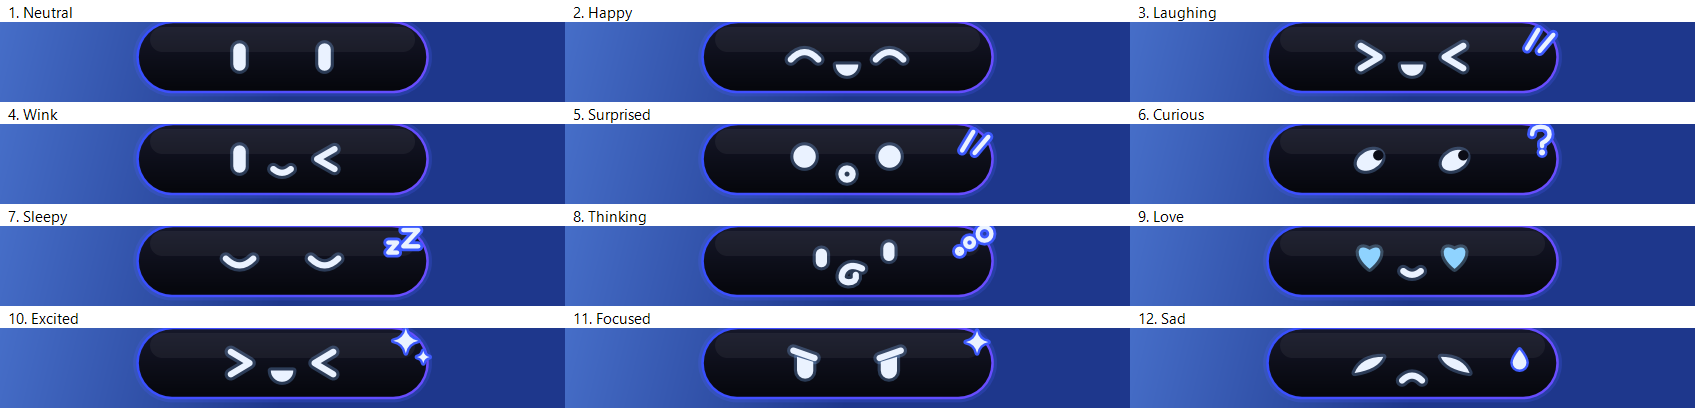
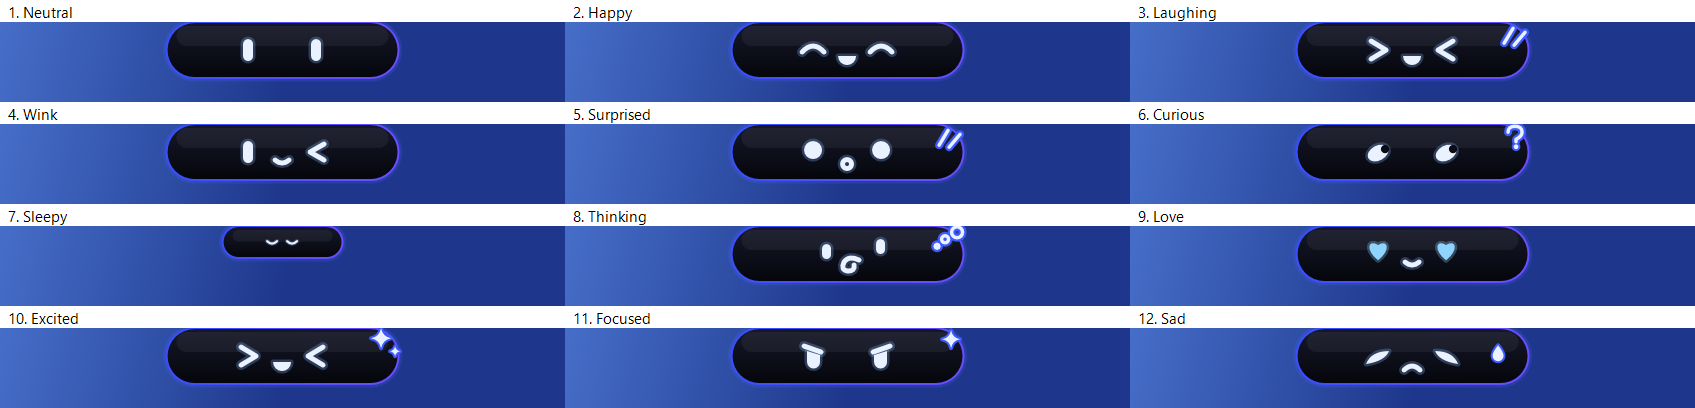
Draw the compact island states at 0.8 scale
Mini, Reaction and Info were larger than the user wanted next to another
notch app. IslandHost now scales those states (and their face/info content)
by CompactScale = 0.8; the panel keeps its size.

diff --git a/src/TaskIsland.App/Controls/IslandHost.cs b/src/TaskIsland.App/Controls/IslandHost.cs
@@ -20,6 +20,14 @@ public sealed class IslandHost : Grid
 {
     public const double HostWidth = 452;
 
+    /// <summary>
+    /// Mini, Reaction and Info are drawn at this scale: callers pass the design sizes (120 x 32, 232 x 56, NotchWidth x 36)
+    /// and the face/info content is laid out at the design size under the same scale. The panel is not scaled.
+    /// </summary>
+    public const double CompactScale = 0.8;
+
+    private static readonly ScaleTransform CompactTransform = Frozen(new ScaleTransform(CompactScale, CompactScale));
+
     public static readonly DependencyProperty MorphProperty = DependencyProperty.Register(
         nameof(Morph), typeof(double), typeof(IslandHost),
         new PropertyMetadata(0.0, (d, e) => ((IslandHost)d).OnMorph((double)e.NewValue)));
@@ -32,6 +40,7 @@ public sealed class IslandHost : Grid
     private readonly TranslateTransform _panelSlide = new();
     private FrameworkElement? _face, _info, _panel;
     private Look _from, _to, _now;
+    private Size _requested = new(120, 32);
     private bool _fromPanel, _toPanel, _resetting, _mascotLook = true;
     private int _generation;
     private double _panelOpacity = 0.94;
@@ -43,7 +52,7 @@ public sealed class IslandHost : Grid
         VerticalAlignment = VerticalAlignment.Stretch;
         Background = null;
 
-        _glow = new Path { Data = _geo, StrokeThickness = 7, IsHitTestVisible = false };
+        _glow = new Path { Data = _geo, StrokeThickness = 7 * CompactScale, IsHitTestVisible = false };
         _glow.SetResourceReference(Shape.StrokeProperty, "MascotGlowRingBrush");
 
         _shadowEffect = new DropShadowEffect { BlurRadius = 28, ShadowDepth = 8, Direction = 270, Color = Colors.Black, Opacity = 0.35 };
@@ -67,7 +76,7 @@ public sealed class IslandHost : Grid
         _gloss = new Path { Data = _glossGeo, IsHitTestVisible = false };
         _gloss.SetResourceReference(Shape.FillProperty, "MascotGlossBrush");
         _clipLayer = new Grid { Clip = _geo, Background = null };
-        _outline = new Path { Data = _geo, StrokeThickness = 2, IsHitTestVisible = false };
+        _outline = new Path { Data = _geo, StrokeThickness = 2 * CompactScale, IsHitTestVisible = false };
         _outline.SetResourceReference(Shape.StrokeProperty, "MascotOutlineBrush");
 
         foreach (var e in new UIElement[] { _glow, _shadow, _body, _panelBody, _gloss, _clipLayer, _outline }) Children.Add(e);
@@ -93,7 +102,8 @@ public sealed class IslandHost : Grid
             if (value is null) return;
             value.HorizontalAlignment = HorizontalAlignment.Center;
             value.VerticalAlignment = VerticalAlignment.Top;
-            value.Margin = new Thickness(0, -4, 0, 0); // the rig's pill starts at y = 4
+            value.LayoutTransform = CompactTransform;
+            value.Margin = new Thickness(0, -4 * CompactScale, 0, 0); // the rig's pill starts at y = 4
             Children.Add(value);
             Render(_now);
         }
@@ -103,7 +113,11 @@ public sealed class IslandHost : Grid
     public FrameworkElement? Info
     {
         get => _info;
-        set => SetClipped(ref _info, value);
+        set
+        {
+            SetClipped(ref _info, value);
+            if (value is not null) value.LayoutTransform = CompactTransform;
+        }
     }
 
     /// <summary>The to-do panel, created on first expand.</summary>
@@ -129,7 +143,7 @@ public sealed class IslandHost : Grid
         _mascotLook = on;
         _body.SetResourceReference(Shape.FillProperty, on ? "MascotBodyBrush" : "PillBrush");
         _outline.SetResourceReference(Shape.StrokeProperty, on ? "MascotOutlineBrush" : "StrokeBrush");
-        _outline.StrokeThickness = on ? 2 : 1;
+        _outline.StrokeThickness = on ? 2 * CompactScale : 1;
         if (!IsAnimating) Snap();
     }
 
@@ -154,7 +168,7 @@ public sealed class IslandHost : Grid
 
     /// <summary>
     /// Morphs to a state. Only the shared geometry and opacities change per frame. A new call smoothly takes over
-    /// from wherever a running morph is.
+    /// from wherever a running morph is. Sizes are design sizes; Mini/Reaction/Info are scaled by <see cref="CompactScale"/>.
     /// </summary>
     public void AnimateTo(IslandState state, double width, double height, TimeSpan duration, IEasingFunction ease,
         Action? completed = null)
@@ -163,6 +177,7 @@ public sealed class IslandHost : Grid
         _fromPanel = State == IslandState.Panel;
         _toPanel = state == IslandState.Panel;
         State = state;
+        _requested = new Size(width, height);
         _from = snapshot;
         _to = Target(state, width, height);
         int generation = ++_generation;
@@ -218,7 +233,7 @@ public sealed class IslandHost : Grid
         completed?.Invoke();
     }
 
-    private void Snap() => AnimateTo(State, _to.W, _to.H, TimeSpan.Zero, FluentEase.Decelerate);
+    private void Snap() => AnimateTo(State, _requested.Width, _requested.Height, TimeSpan.Zero, FluentEase.Decelerate);
 
     private void OnMorph(double p)
     {
@@ -240,8 +255,10 @@ public sealed class IslandHost : Grid
         double x = (HostWidth - l.W) / 2;
         _geo.Rect = new Rect(x, 0, l.W, l.H);
         _geo.RadiusX = _geo.RadiusY = l.R;
-        double gh = Math.Min(20, l.H * 0.36);
-        _glossGeo.Rect = new Rect(x + 10, 4, Math.Max(0, l.W - 20), gh);
+        // The gloss is only visible in the compact states, so it uses their scale.
+        const double k = CompactScale;
+        double gh = Math.Min(20 * k, l.H * 0.36);
+        _glossGeo.Rect = new Rect(x + 10 * k, 4 * k, Math.Max(0, l.W - 20 * k), gh);
         _glossGeo.RadiusX = _glossGeo.RadiusY = gh / 2;
         _body.Opacity = l.Body;
         _panelBody.Opacity = l.PanelBody;
@@ -260,6 +277,11 @@ public sealed class IslandHost : Grid
     private Look Target(IslandState state, double w, double h)
     {
         double m = _mascotLook ? 1 : 0;
+        if (state != IslandState.Panel)
+        {
+            w *= CompactScale;
+            h *= CompactScale;
+        }
         return state switch
         {
             IslandState.Mini => new Look(w, h, h / 2, 1, 0, m, m, m, 1, 0, 0),
@@ -292,6 +314,7 @@ public sealed class IslandHost : Grid
         if (e is not null && to <= 0) e.Visibility = Visibility.Collapsed;
     }
 
+    private static T Frozen<T>(T f) where T : Freezable { f.Freeze(); return f; }
     private static double Lerp(double a, double b, double p) => a + (b - a) * p;
     private static double Clamp01(double v) => Math.Clamp(v, 0, 1);
 

diff --git a/docs/DEVLOG.md b/docs/DEVLOG.md
@@ -234,3 +234,19 @@ box would save memory but break IME typing (Chinese and others), so it was not d
   expand/collapse loops without the mouse; `%TEMP%\TaskIsland-debug.log`. Real mouse tests move the user's pointer: ask first.
 - *Open issues:* the memory budget and the first-expand hitch (above).
 - *Exact next step:* start Phase 3 (Sonnet or Opus, Medium effort): `dotnet build` + `dotnet test` (expect 249 green), then PLAN §8 Phase 3 step 1.
+
+### Change — smaller compact island (2026-11-03, Opus 5.5)
+**Asked:** the notch should be a bit smaller; the user runs Nusa (another notch app) and asked to compare its position and size.
+**Nusa, measured live** (its running window, not the installer; `NusaSetup.exe` was not run): one 800 × 238 px window at the top
+centre of the screen (y = 0) whose window region follows the visible shape. At rest the drawn notch is **180 × 37 px** at 125 %
+(≈ 144 × 30 DIP), flush with the top edge, flat top, rounded bottom corners. TaskIsland was Mini 120 × 32, Info 200 × 36 and
+Reaction 232 × 56 DIP, 8 DIP below the top edge.
+**Done:** `IslandHost.CompactScale = 0.8` draws Mini, Reaction and Info at 0.8× (Mini 96 × 25.6, Info 160 × 28.8 by default,
+Reaction 185.6 × 44.8 DIP; at 125 % that is 120 × 32, 200 × 36, 232 × 56 px). The face and info content keep their design-size
+layout under a frozen `LayoutTransform`, so the 1:1 reference geometry is unchanged; outline/glow strokes and the gloss scale with
+it. The panel is not scaled. Window size, position and `TopMargin` are unchanged. PLAN §6.8 updated.
+**Tests:** Release + Debug build 0 warnings / 0 errors; `dotnet test` 249 passed. `--snap` renders of every compact state and all
+12 faces checked (nothing clipped; replaced `docs/screenshots/phase2-collapsed-states.png` and `phase2-faces.png`). Release start
+checked live: window 565 × 80 px at (678, 10), unchanged. Hover/click not re-run with the mouse (no input code changed; the hit
+area is the painted shape, which scales with it).
+**Open:** position is still a floating pill 8 DIP below the top edge, unlike Nusa's flush notch; the user decides whether to change it.

diff --git a/docs/PLAN.md b/docs/PLAN.md
@@ -626,6 +626,12 @@ screenshots must be compared side by side with the reference sheet.
 | **Info** | NotchWidth × 36, peek up to 360 | progress ring, "3 tasks", top task on longer hover (§6.3) | hover ≥ 400 ms |
 | **Panel** | 420 × ≤ 550 | the To-Do panel (§6.4); a 28-px version of the face sits left of the title and reacts too | click / hotkey / tray |
 
+**Compact scale (2026-11-03 change):** Mini, Reaction and Info are drawn at **0.8×** the sizes above
+(`IslandHost.CompactScale`): Mini 96 × 25.6, Reaction 185.6 × 44.8, Info NotchWidth × 0.8 by 28.8 DIP (at 125 %: 120 × 32,
+232 × 56, 200 × 36 px). The user asked for a smaller notch; for reference, the Nusa notch app measured 180 × 37 px at 125 %. Code
+still passes the design sizes above and the face/info content keeps its 1:1 reference geometry under the scale. The panel is not
+scaled.
+
 Hover (Phase 2): Mini → Curious for 400 ms → Info pill → peek after another 600 ms. Clicking the hover face or the Info pill opens
 the panel; clicking a face that popped up by itself shows Laughing and a second click opens the panel.
 
